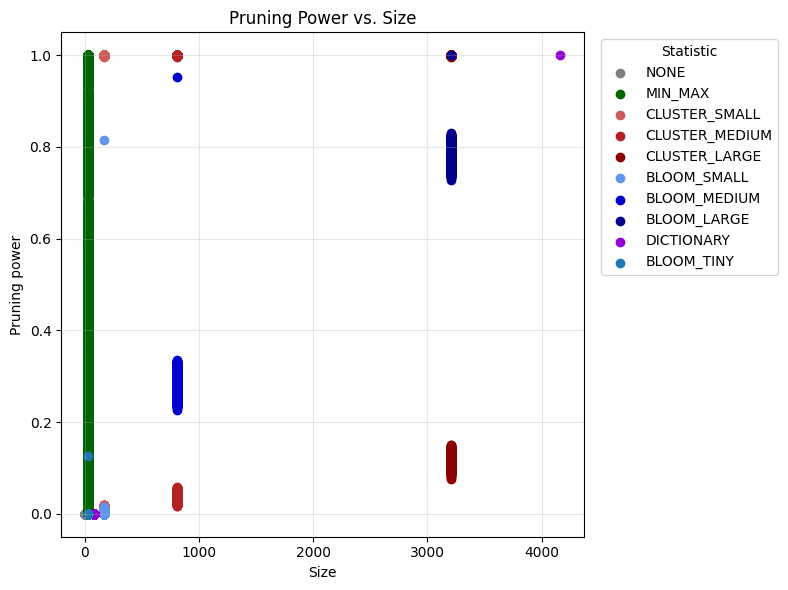
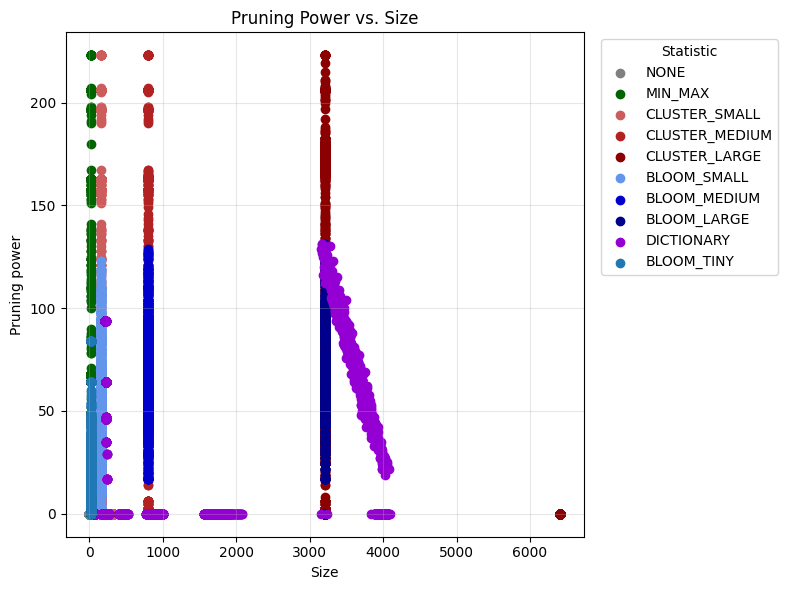
minor fixes

diff --git a/data_processor.py b/data_processor.py
@@ -29,16 +29,16 @@ duckdb.execute(f"CREATE TABLE Result_size (Name VARCHAR, Unit VARCHAR, Table_nam
 # duckdb.execute(f"CREATE TABLE Result_ingestion (Name VARCHAR, Unit VARCHAR, Table_name VARCHAR, {", ".join([f'"{name}" FLOAT' for name in names])});")
 for idx,in_file in enumerate(in_files):
     duckdb.execute(f"CREATE OR REPLACE TABLE tbl AS SELECT * FROM read_csv('{in_file}',max_line_size=100000000);")
-    duckdb.execute("CREATE OR REPLACE TABLE times AS SELECT start_time,end_time,t1.CommandID AS CommandID FROM (SELECT Time as end_time,CommandID FROM tbl WHERE type = 'SQL_COMMAND_RUN_END') t1 JOIN (SELECT Time as start_time,CommandID FROM tbl WHERE type = 'SQL_COMMAND_RUN_START') t2 on t1.CommandID = t2.CommandID;")
+    duckdb.execute("CREATE OR REPLACE TABLE times AS SELECT start_time,end_time,t1.CommandID AS CommandID FROM (SELECT Time as end_time,CommandID FROM tbl WHERE Type = 'SQL_COMMAND_RUN_END') t1 JOIN (SELECT Time as start_time,CommandID FROM tbl WHERE Type = 'SQL_COMMAND_RUN_START') t2 on t1.CommandID = t2.CommandID;")
     for i in range(NUM_TABLES):
-        sizes[idx].append(duckdb.execute(f"SELECT COALESCE(SUM(CAST(Data->'size' AS HUGEINT)),0) FROM tbl WHERE type = 'END_INITIALISE_ADDITIONAL_STATS' AND CommandID = {NUM_TABLES+i+(3 if ATTACHED else 1)};").fetchone()[0])
-        max_sizes[idx].append(duckdb.execute(f"SELECT COALESCE(MAX(CAST(Data->'size' AS HUGEINT)),0) FROM tbl WHERE type = 'END_INITIALISE_ADDITIONAL_STATS' AND CommandID = {NUM_TABLES+i+(3 if ATTACHED else 1)};").fetchone()[0])
+        sizes[idx].append(duckdb.execute(f"SELECT COALESCE(SUM(CAST(Data->'size' AS HUGEINT)),0) FROM tbl WHERE Type = 'END_INITIALISE_ADDITIONAL_STATS' AND CommandID = {NUM_TABLES+i+(3 if ATTACHED else 1)};").fetchone()[0])
+        max_sizes[idx].append(duckdb.execute(f"SELECT COALESCE(MAX(CAST(Data->'size' AS HUGEINT)),0) FROM tbl WHERE Type = 'END_INITIALISE_ADDITIONAL_STATS' AND CommandID = {NUM_TABLES+i+(3 if ATTACHED else 1)};").fetchone()[0])
         ingestion_times[idx].append(duckdb.execute(f"SELECT ROUND((end_time-start_time)/1000000.0,5) FROM times WHERE CommandID = {NUM_TABLES+i+(3 if ATTACHED else 1)}").fetchone()[0])
-        tables[idx].append(duckdb.execute(f"SELECT CAST(Data->'command' AS VARCHAR) FROM tbl WHERE type='SQL_COMMAND_RUN_START' AND CommandID = {NUM_TABLES+i+(3 if ATTACHED else 1)}").fetchone()[0].split()[1])
+        tables[idx].append(duckdb.execute(f"SELECT CAST(Data->'command' AS VARCHAR) FROM tbl WHERE Type='SQL_COMMAND_RUN_START' AND CommandID = {NUM_TABLES+i+(3 if ATTACHED else 1)}").fetchone()[0].split()[1])
 
     for i in range(NUM_QUERIES):
         times[idx] += [l[0] for l in duckdb.execute(f"SELECT ROUND((end_time-start_time)/1000000.0,5) FROM times WHERE CommandID >= {QUERIES_START+NUM_ITERATIONS*i} AND CommandID < {QUERIES_START+NUM_ITERATIONS*(1+i)};").fetchall()]
-        rows_scanned[idx].append(duckdb.execute(f"SELECT SUM(CAST(Data->'count' AS HUGEINT)) AS val FROM tbl WHERE type = 'SCANNED_PARTITIONS' and CommandID = {2*NUM_TABLES+i+(3 if ATTACHED else 1)};").fetchone()[0])
+        rows_scanned[idx] += [l[0] for l in duckdb.execute(f"SELECT AVG(CAST(Data->'count' AS HUGEINT)) AS val FROM tbl WHERE Type = 'SCANNED_PARTITIONS' AND CommandID >= {QUERIES_START+NUM_ITERATIONS*i} AND CommandID < {QUERIES_START+NUM_ITERATIONS*(1+i)};").fetchall()]
 for i in range(NUM_QUERIES):
     for j in range(NUM_ITERATIONS):
         idx = i*NUM_ITERATIONS+j

diff --git a/analyser_processor.py b/analyser_processor.py
@@ -12,11 +12,22 @@ if os.path.exists("test.db"):
     os.remove("test.db")
 duckdb.execute("ATTACH 'test.db'")
 duckdb.execute("USE test")
-duckdb.execute(f"CREATE TABLE result (table_name VARCHAR, rowgroup INT, col INT, statistic INT,statistic_alias VARCHAR, size HUGEINT, pruning_power FLOAT);")
+duckdb.execute(f"CREATE TABLE result (table_name VARCHAR, rowgroup INT, col INT, statistic INT,statistic_alias VARCHAR, size HUGEINT, pruning_power INT);")
 for idx,(in_file,name) in enumerate(zip(in_files,names)):
     duckdb.execute(f"CREATE OR REPLACE TABLE tbl AS SELECT * FROM read_csv('{in_file}',max_line_size=100000000);")
     duckdb.execute("CREATE OR REPLACE TABLE sizes AS SELECT Data->>'table_id' AS table_name,CAST(Data->'rowgroup' AS INT) AS rowgroup,CAST(Data->'column' AS INT) AS col,CAST(Data->'size' AS HUGEINT) AS size FROM tbl WHERE Type='END_INITIALISE_ADDITIONAL_STATS';")
 
-    duckdb.execute(f"INSERT INTO result SELECT sizes.table_name AS table_name, sizes.rowgroup AS rowgroup,sizes.col AS col,{idx} as statistic,statistic_alias,size-{EMPTY_SIZE} as size,pruning_power FROM (sizes JOIN (SELECT Data->>'table_id' AS table_name, CAST(Data->'rowgroup' AS INT) AS rowgroup,CAST(Data->'column' AS INT) AS col,'{name}' AS statistic_alias, countif(CAST(Data->'result' AS INT) = 2)/count(*) AS pruning_power FROM tbl WHERE Type='EVAL_STATISTICS' GROUP BY (table_name,rowgroup,col)) t2 ON sizes.rowgroup = t2.rowgroup AND sizes.col = t2.col AND sizes.table_name = t2.table_name);")
+    duckdb.execute(f"""
+                    INSERT INTO result
+                    SELECT sizes.table_name AS table_name, sizes.rowgroup AS rowgroup,sizes.col AS col,{idx} as statistic,'{name}' AS statistic_alias,size,COALESCE(pruning_power,0)
+                    FROM (
+                        sizes LEFT JOIN (
+                            SELECT Data->>'table_id' AS table_name, CAST(Data->'rowgroup' AS INT) AS rowgroup,CAST(Data->'column' AS INT) AS col, countif(CAST(Data->'result' AS INT) = 2) AS pruning_power
+                            FROM tbl
+                            WHERE Type='EVAL_STATISTICS'
+                            GROUP BY (table_name,rowgroup,col)
+                        ) t2
+                        ON sizes.rowgroup = t2.rowgroup AND sizes.col = t2.col AND sizes.table_name = t2.table_name
+                    );""")
 
 duckdb.execute(f"COPY result TO '{OUT_FILE}';")

diff --git a/assigners/greedy.py b/assigners/greedy.py
@@ -19,7 +19,12 @@ for i,line in enumerate(IN_FILE):
     table_name,rowgroup,col,statistic,statistic_alias,size,pruning_power = line.split(",")
     rowgroup,col,statistic,size = map(int,[rowgroup,col,statistic,size])
     pruning_power = float(pruning_power)
-    pq.append((-pruning_power/size,pruning_power,table_name,rowgroup,col,statistic,size))
+    if statistic == 0:
+        budget -= size
+        mapping[(table_name,rowgroup,col)] = statistic
+        current_size[(table_name,rowgroup,col)] = size
+    else:
+        pq.append((-pruning_power/size,pruning_power,table_name,rowgroup,col,statistic,size))
 
 IN_FILE.close()
 
@@ -27,7 +32,7 @@ heapq.heapify(pq)
 
 while pq:
     val,pruning_power,table_name,rowgroup,col,statistic,size = heapq.heappop(pq)
-    if size > budget or pruning_power <= current_pruning_power[(table_name,rowgroup,col)]:
+    if size-current_size[(table_name,rowgroup,col)] > budget or pruning_power <= current_pruning_power[(table_name,rowgroup,col)]:
         continue
     new_val = -(pruning_power-current_pruning_power[(table_name,rowgroup,col)])/(size-current_size[(table_name,rowgroup,col)])
     if val != new_val:

diff --git a/assigners/greedy_simple.py b/assigners/greedy_simple.py
@@ -1,6 +1,4 @@
 import sys
-from collections import defaultdict
-import heapq
 
 IN_FILE = open(sys.argv[1],"r")
 OUT_FILE = open(sys.argv[2],"w+")
@@ -17,13 +15,17 @@ for i,line in enumerate(IN_FILE):
     table_name,rowgroup,col,statistic,statistic_alias,size,pruning_power = line.split(",")
     rowgroup,col,statistic,size = map(int,[rowgroup,col,statistic,size])
     pruning_power = float(pruning_power)
-    options.append((-pruning_power,size,table_name,rowgroup,col,statistic))
+    if statistic == 0:
+        budget -= size
+        mapping[(table_name,rowgroup,col)] = statistic
+    else:
+        options.append((-pruning_power,size,table_name,rowgroup,col,statistic))
 
 IN_FILE.close()
 options.sort()
 
 for _,size,table_name,rowgroup,col,statistic in options:
-    if not (table_name,rowgroup,col) in mapping and size <= budget:
+    if mapping[(table_name,rowgroup,col)] == 0 and size <= budget:
         budget-=size
         mapping[(table_name,rowgroup,col)] = statistic
 

diff --git a/duckdb/tools/shell/shell.cpp b/duckdb/tools/shell/shell.cpp
@@ -4930,7 +4930,7 @@ static bool LoadStatisticMapping(const std::string &filename) {
 				throw std::invalid_argument("invalid column");
 			}
 			statistic = std::stoi(fields[3], &parsed);
-			if (parsed != fields[3].size() || statistic < 0 || statistic > 8) {
+			if (parsed != fields[3].size() || statistic < 0 || statistic > 9) {
 				throw std::invalid_argument("invalid statistic");
 			}
 		} catch (const std::exception &) {
